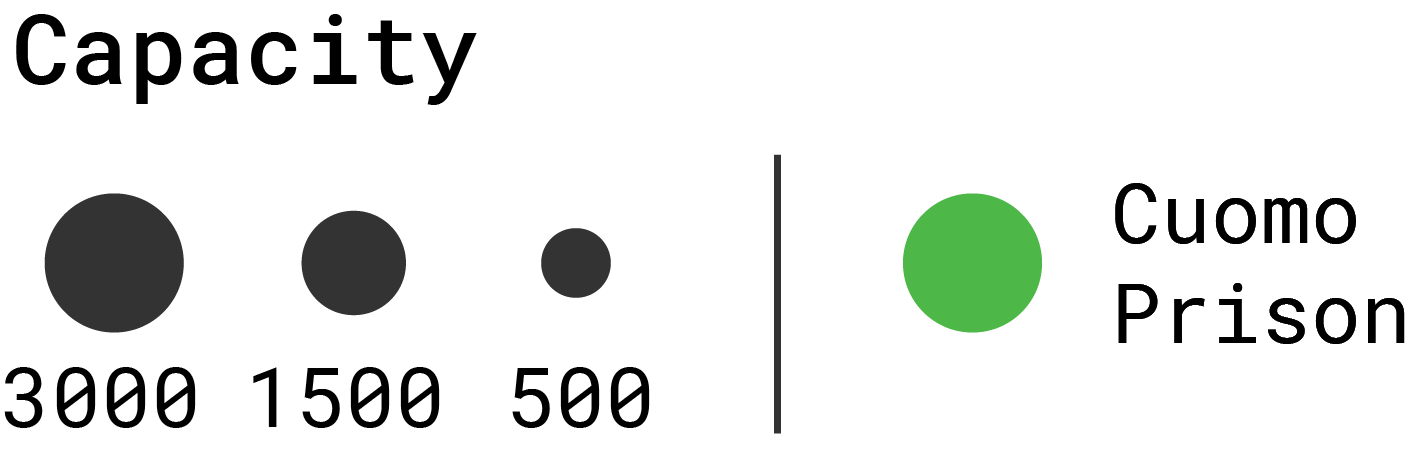
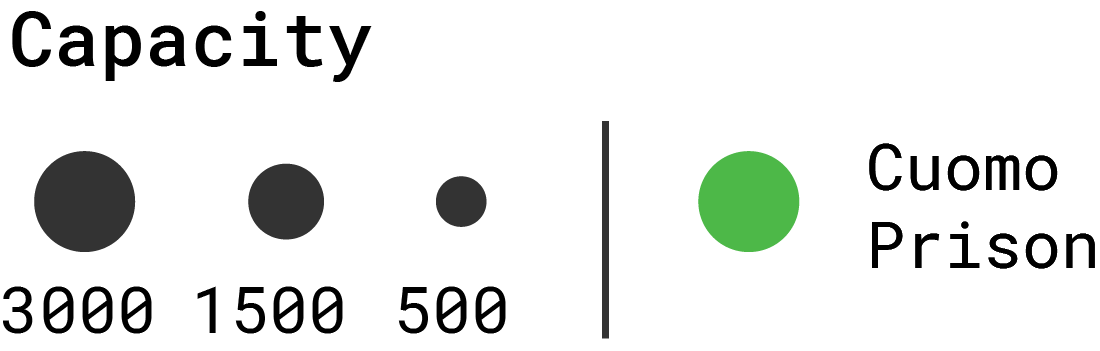
smallupdate to legend

diff --git a/mapbox/config.js b/mapbox/config.js
@@ -762,7 +762,7 @@ map.on('load',function(){
             alignment: 'right',
             hidden: false,
             title: 'Prison Closures',
-            image: './images/cuomo_prison_legend.png',
+            image: './images/prison_legend.png',
             description: `This conflict is now evolving in a period of decarceration. As prison populations decrease across the state, New York began the process of shutting down prisons to consolidate, some of which were the very prisons that Mario Cuomo opened during his terms as Governor. The creation of a major industry in which upstate communities view people of color from urban centers as criminals has caused a major reactionary backlash to the closure of these prisons.`,
             location: {
                 center: [-74, 42.8270],
